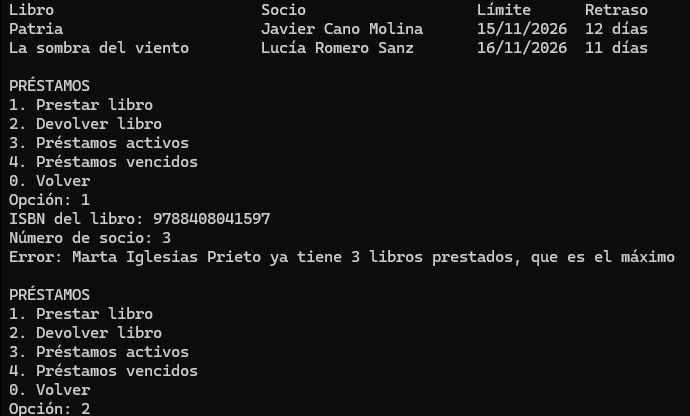
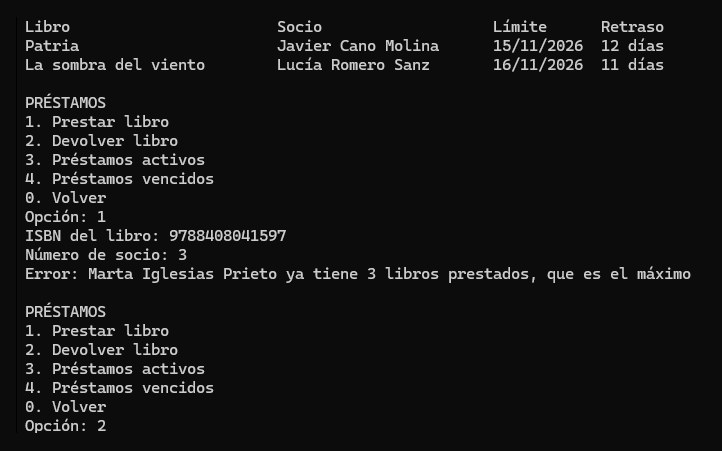
Capturas mejor recortadas, demos más visibles y contacto con botón

diff --git a/index.html b/index.html
@@ -60,7 +60,7 @@
     <section class="section" id="proyectos" aria-labelledby="titulo-proyectos">
       <div class="container">
         <div class="section-title"><h2 id="titulo-proyectos">Proyectos del ciclo</h2></div>
-        <p class="section-intro">Cinco proyectos hechos en distintos módulos del ciclo. Todos tienen el código en GitHub y dos se pueden probar en el navegador.</p>
+        <p class="section-intro">Seis proyectos hechos durante el ciclo con PHP, MySQL, JavaScript, Java, SQL, XML, HTML y CSS. Dos se pueden probar en el navegador y <a href="https://github.com/michaelmarquez-daw">todo el código está en GitHub</a>.</p>
         <ul class="work-index">
           <li class="work-row">
             <a class="work-thumb" href="proyectos.html#surco-discos" tabindex="-1" aria-hidden="true"><img src="assets/img/proyectos/mini/tienda-php.jpg" alt="" width="800" height="500" loading="lazy"></a>
@@ -68,34 +68,34 @@
               <h3><a href="proyectos.html#surco-discos">Surco Discos</a></h3>
               <p class="modulo">Desarrollo web en servidor · PHP y MySQL</p>
               <p>Tienda online de vinilos con carrito, pedidos y panel de administración. No tiene demo porque necesita un servidor con PHP.</p>
-              <p class="work-links"><a href="https://github.com/michaelmarquez-daw/tienda-php">Código en GitHub</a></p>
+              <p class="work-links"><a href="https://github.com/michaelmarquez-daw/tienda-php">Código en GitHub<svg class="externo" aria-hidden="true" viewBox="0 0 16 16" width="14" height="14"><path d="M6.5 3.5h6v6M12.5 3.5 4 12" fill="none" stroke="currentColor" stroke-width="1.6" stroke-linecap="round"/></svg><span class="sr-only"> (abre otra web)</span></a></p>
             </div>
           </li>
           <li class="work-row">
-            <a class="work-thumb" href="proyectos.html#calculadora-notas" tabindex="-1" aria-hidden="true"><img src="assets/img/proyectos/mini/notas-js.jpg" alt="" width="848" height="530" loading="lazy"></a>
+            <a class="work-thumb" href="proyectos.html#calculadora-notas" tabindex="-1" aria-hidden="true"><img src="assets/img/proyectos/mini/notas-js.jpg" alt="" width="819" height="512" loading="lazy"></a>
             <div class="work-text">
               <h3><a href="proyectos.html#calculadora-notas">Calculadora de notas del ciclo</a></h3>
               <p class="modulo">Desarrollo web en cliente · JavaScript y JSON</p>
               <p>Calcula la media del ciclo a partir de la nota de cada módulo y la guarda en el navegador.</p>
-              <p class="work-links"><a href="https://michaelmarquez-daw.github.io/notas-js/">Probar la demo</a><a href="https://github.com/michaelmarquez-daw/notas-js">Código en GitHub</a></p>
+              <p class="work-links"><a class="btn btn-secondary btn-demo" href="https://michaelmarquez-daw.github.io/notas-js/">Probar la demo<svg class="externo" aria-hidden="true" viewBox="0 0 16 16" width="14" height="14"><path d="M6.5 3.5h6v6M12.5 3.5 4 12" fill="none" stroke="currentColor" stroke-width="1.6" stroke-linecap="round"/></svg><span class="sr-only"> (abre otra web)</span></a><a href="https://github.com/michaelmarquez-daw/notas-js">Código en GitHub<svg class="externo" aria-hidden="true" viewBox="0 0 16 16" width="14" height="14"><path d="M6.5 3.5h6v6M12.5 3.5 4 12" fill="none" stroke="currentColor" stroke-width="1.6" stroke-linecap="round"/></svg><span class="sr-only"> (abre otra web)</span></a></p>
             </div>
           </li>
           <li class="work-row">
-            <a class="work-thumb" href="proyectos.html#gestor-biblioteca" tabindex="-1" aria-hidden="true"><img src="assets/img/proyectos/mini/biblioteca-java.jpg" alt="" width="690" height="416" loading="lazy"></a>
+            <a class="work-thumb" href="proyectos.html#gestor-biblioteca" tabindex="-1" aria-hidden="true"><img src="assets/img/proyectos/mini/biblioteca-java.jpg" alt="" width="722" height="451" loading="lazy"></a>
             <div class="work-text">
               <h3><a href="proyectos.html#gestor-biblioteca">Gestor de biblioteca</a></h3>
               <p class="modulo">Programación y Entornos de desarrollo · Java, Maven y JUnit</p>
               <p>Programa de consola para llevar libros, socios y préstamos. Las reglas, como el máximo de tres libros por socio, tienen tests.</p>
-              <p class="work-links"><a href="https://github.com/michaelmarquez-daw/biblioteca-java">Código en GitHub</a></p>
+              <p class="work-links"><a href="https://github.com/michaelmarquez-daw/biblioteca-java">Código en GitHub<svg class="externo" aria-hidden="true" viewBox="0 0 16 16" width="14" height="14"><path d="M6.5 3.5h6v6M12.5 3.5 4 12" fill="none" stroke="currentColor" stroke-width="1.6" stroke-linecap="round"/></svg><span class="sr-only"> (abre otra web)</span></a></p>
             </div>
           </li>
           <li class="work-row">
-            <a class="work-thumb" href="proyectos.html#base-datos-instituto" tabindex="-1" aria-hidden="true"><img src="assets/img/proyectos/mini/instituto-sql.jpg" alt="" width="690" height="431" loading="lazy"></a>
+            <a class="work-thumb" href="proyectos.html#base-datos-instituto" tabindex="-1" aria-hidden="true"><img src="assets/img/proyectos/mini/instituto-sql.jpg" alt="" width="656" height="410" loading="lazy"></a>
             <div class="work-text">
               <h3><a href="proyectos.html#base-datos-instituto">Base de datos de un instituto</a></h3>
               <p class="modulo">Bases de datos · SQL en MySQL</p>
               <p>Del modelo entidad-relación a la base de datos, con consultas, vistas y triggers que validan los datos.</p>
-              <p class="work-links"><a href="https://github.com/michaelmarquez-daw/instituto-sql">Código en GitHub</a></p>
+              <p class="work-links"><a href="https://github.com/michaelmarquez-daw/instituto-sql">Código en GitHub<svg class="externo" aria-hidden="true" viewBox="0 0 16 16" width="14" height="14"><path d="M6.5 3.5h6v6M12.5 3.5 4 12" fill="none" stroke="currentColor" stroke-width="1.6" stroke-linecap="round"/></svg><span class="sr-only"> (abre otra web)</span></a></p>
             </div>
           </li>
           <li class="work-row">
@@ -104,18 +104,31 @@
               <h3><a href="proyectos.html#catalogo-videojuegos">Catálogo de videojuegos</a></h3>
               <p class="modulo">Lenguajes de marcas · XML, XSD y XSLT</p>
               <p>Un catálogo en XML validado y convertido en página web con XSLT.</p>
-              <p class="work-links"><a href="https://michaelmarquez-daw.github.io/videojuegos-xml/web/">Probar la demo</a><a href="https://github.com/michaelmarquez-daw/videojuegos-xml">Código en GitHub</a></p>
+              <p class="work-links"><a class="btn btn-secondary btn-demo" href="https://michaelmarquez-daw.github.io/videojuegos-xml/web/">Probar la demo<svg class="externo" aria-hidden="true" viewBox="0 0 16 16" width="14" height="14"><path d="M6.5 3.5h6v6M12.5 3.5 4 12" fill="none" stroke="currentColor" stroke-width="1.6" stroke-linecap="round"/></svg><span class="sr-only"> (abre otra web)</span></a><a href="https://github.com/michaelmarquez-daw/videojuegos-xml">Código en GitHub<svg class="externo" aria-hidden="true" viewBox="0 0 16 16" width="14" height="14"><path d="M6.5 3.5h6v6M12.5 3.5 4 12" fill="none" stroke="currentColor" stroke-width="1.6" stroke-linecap="round"/></svg><span class="sr-only"> (abre otra web)</span></a></p>
+            </div>
+          </li>
+          <li class="work-row">
+            <a class="work-thumb" href="proyectos.html#este-portfolio" tabindex="-1" aria-hidden="true"><img src="assets/img/proyectos/mini/portfolio.jpg" alt="" width="800" height="500" loading="lazy"></a>
+            <div class="work-text">
+              <h3><a href="proyectos.html#este-portfolio">Este portfolio</a></h3>
+              <p class="modulo">Diseño y maquetación web · HTML, CSS y JavaScript</p>
+              <p>La web en la que estás: adaptada al móvil, sin plantillas ni frameworks y publicada en GitHub Pages.</p>
+              <p class="work-links"><a href="https://github.com/michaelmarquez-daw/michaelmarquez-daw.github.io">Código en GitHub<svg class="externo" aria-hidden="true" viewBox="0 0 16 16" width="14" height="14"><path d="M6.5 3.5h6v6M12.5 3.5 4 12" fill="none" stroke="currentColor" stroke-width="1.6" stroke-linecap="round"/></svg><span class="sr-only"> (abre otra web)</span></a></p>
             </div>
           </li>
         </ul>
-        <p class="more"><a href="proyectos.html">Fichas completas de cada proyecto</a><a href="https://github.com/michaelmarquez-daw">Todos los repositorios en GitHub</a></p>
+        <p class="more"><a href="proyectos.html">Más detalles de cada proyecto</a></p>
       </div>
     </section>
 
     <section class="section cierre" aria-labelledby="titulo-contacto">
       <div class="container">
         <h2 id="titulo-contacto">Contacto</h2>
-        <p>Si tienes una plaza de prácticas en Madrid, escríbeme a <a href="mailto:michael.marquez.calvo2@gmail.com">michael.marquez.calvo2@gmail.com</a> y lo hablamos. También puedes ver <a href="assets/cv/CV_Michael_Marquez_Calvo_DAW.pdf">mi CV en PDF</a> o leer <a href="sobre-mi.html">mi formación y&nbsp;experiencia</a>.</p>
+        <p>Si tienes una plaza de prácticas en Madrid, escríbeme y lo hablamos. Si antes quieres saber algo más, aquí está <a href="sobre-mi.html">mi formación y&nbsp;experiencia</a>.</p>
+        <div class="actions">
+          <a class="btn btn-primary" href="mailto:michael.marquez.calvo2@gmail.com">Escríbeme</a>
+          <a class="btn btn-secondary" href="assets/cv/CV_Michael_Marquez_Calvo_DAW.pdf">Ver mi CV (PDF)</a>
+        </div>
       </div>
     </section>
   </main>

diff --git a/css/styles.css b/css/styles.css
@@ -187,6 +187,7 @@ p { color: var(--ink-2); }
   border: 1px solid var(--line);
   border-radius: 999px;
   padding: 0.4rem 1rem;
+  min-height: 2.75rem;
   color: var(--ink);
   cursor: pointer;
 }
@@ -288,7 +289,8 @@ p { color: var(--ink-2); }
 .section-title:has(+ .section-intro) { margin-bottom: 1rem; }
 .section-intro { max-width: 40rem; margin-bottom: 1.75rem; }
 
-.work-index { list-style: none; padding: 0; border-top: 1px solid var(--line); }
+/* Sin borde arriba: la línea del título ya separa */
+.work-index { list-style: none; padding: 0; }
 .work-row {
   display: grid;
   gap: 1rem;
@@ -299,6 +301,9 @@ p { color: var(--ink-2); }
 .work-thumb img {
   width: 100%;
   height: auto;
+  aspect-ratio: 16 / 10;   /* todas las capturas con la misma proporción, para que las filas midan igual */
+  object-fit: cover;
+  object-position: top left;
   border: 1px solid var(--line);
   border-radius: 0.5rem;
   background: var(--paper-2);
@@ -323,13 +328,29 @@ p { color: var(--ink-2); }
   font-weight: 600;
   font-size: 0.95rem;
 }
-.work-text .work-links a:not(.btn) { display: inline-flex; align-items: center; min-height: 2.75rem; }
+.work-text .work-links a:not(.btn) { display: inline-flex; align-items: center; gap: 0.3rem; min-height: 2.75rem; }
+/* La demo va primero y como botón de contorno: es lo más fácil de probar para quien no programa */
+.btn-demo { min-height: 2.75rem; padding: 0.45rem 1rem; font-size: 0.9rem; gap: 0.35rem; }
+
+/* Flecha de enlace externo (dibujada en SVG) */
+.externo { flex: none; }
+
+/* Texto solo para lectores de pantalla */
+.sr-only {
+  position: absolute;
+  width: 1px;
+  height: 1px;
+  overflow: hidden;
+  clip-path: inset(50%);
+  white-space: nowrap;
+}
 
 .more { display: flex; flex-wrap: wrap; gap: 0.25rem 1.5rem; margin-top: 1.25rem; font-weight: 600; }
 .more a { display: inline-flex; align-items: center; min-height: 2.75rem; }
 
 /* Llamada a contactar */
 .cierre p { margin-top: 1rem; max-width: 38rem; font-size: 1.125rem; }
+.cierre .actions { margin-top: 1.5rem; }
 
 /* Cabecera de las otras páginas */
 .page-head { padding-block: 3.5rem 2.5rem; }
